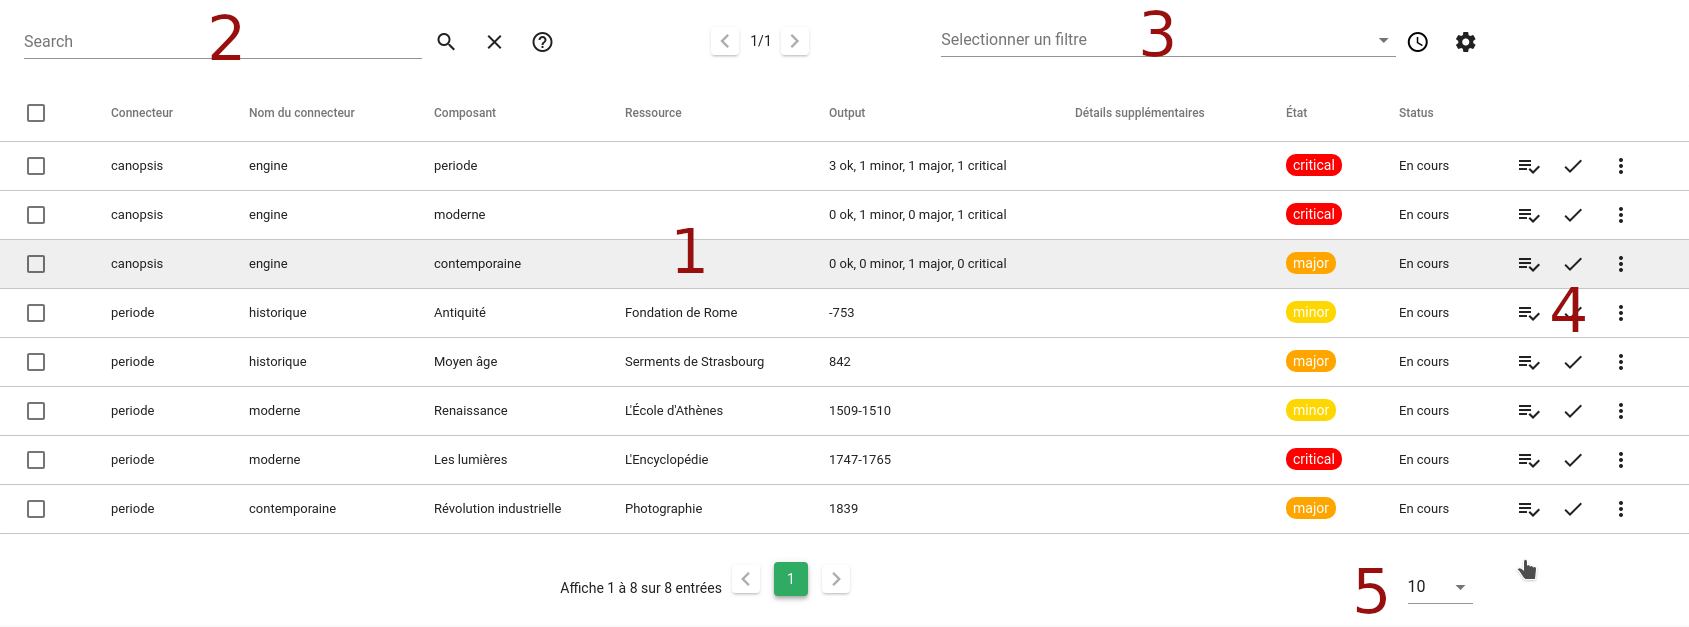
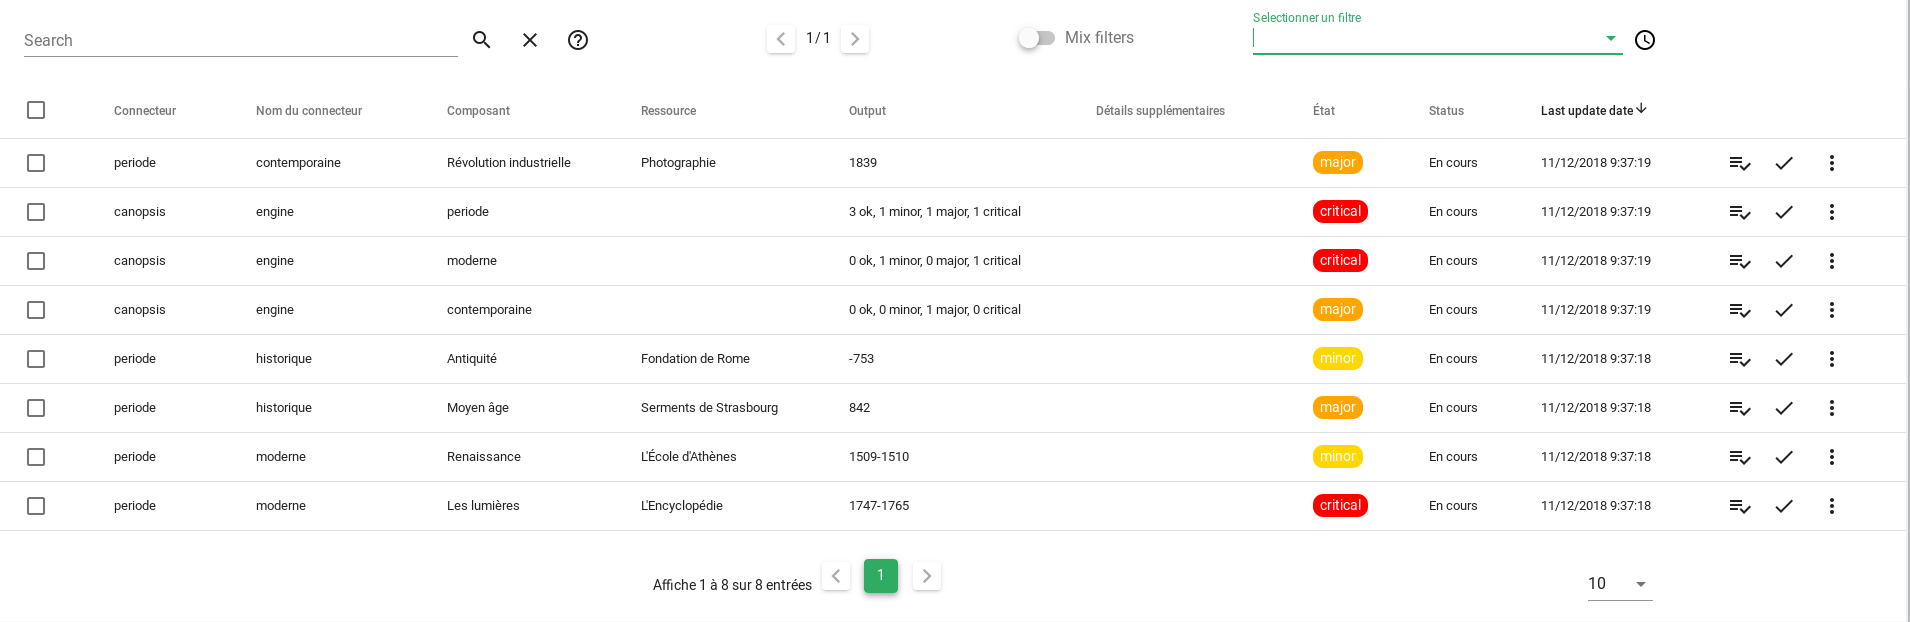
doc(mix-filters): Added mix filters doc in alarm list + context widgets doc

diff --git a/sources/docs/fr/guide-utilisation/interface/widgets/contexte/index.md b/sources/docs/fr/guide-utilisation/interface/widgets/contexte/index.md
@@ -48,6 +48,18 @@ Pour sélectionner un filtre, il suffit de cliquer sur le champ 'Sélectionner u
 Cliquez sur un filtre. Celui-ci est sélectionné, et directement appliqué.
 Pour ne plus appliquer de filtre, il suffit de cliquer sur l'icone présent au bout du champ de sélection de filtre. L'explorateur de contexte se rafraichit, le champ de sélection revient dans état initial, le filtre n'est plus appliqué !
 
+#### Mix filters
+
+L'option "Mix filters", présente à gauche du sélecteur de filtre permet de cumuler plusieurs filtres.
+
+Pour activer cette option, cliquez sur le bouton ![Mix filters](../../filtres/img/mix-filters.png "Mix filters").
+Une fois l'options activée, un sélecteur apparaît à droite du bouton d'activation ![Mix filters operator](../../filtres/img/mix-filters-operator.png "Mix filters operator"). Ce sélecteur permet de choisir l'opérateur utilisé pour réunir les filtres.
+
+- "AND": Les critères présents dans tout les filtres doivent êtres vérifiés
+- "OR": Les critères présents dans un ou plusieurs des filtres doivent êtres vérifiés.
+
+Une fois l'opérateur sélectionné, il ne vous reste plus qu'à sélectionner les filtres à appliquer dans le menu déroulant de sélection de filtres.
+
 ### Création d'entités et d'observateurs
 
 Depuis l'explorateur de contexte, il vous est possible de créer des entités et des observateurs.
@@ -185,6 +197,8 @@ Un champ de sélection permet d'abord de choisir un filtre à appliquer à l'exp
 
 Pour créer un nouveau filtre, cliquez sur le bouton 'Ajouter'. Une fenêtre de création de filtre s'ouvre. Pour plus de détails sur les filtres et leur création, cliquez [ici](../../filtres/index.md).
 Une fois votre filtre créé, celui-ci apparaît dans la liste disponible en dessous du sélecteur de filtre. Cette liste vous permet d'éditer, ou de supprimer les filtres.
+
+L'option "Mix filters" est également disponible depuis ce menu. Pour plus de détails concernant cette option, voir  [Mix filters](#mix-filters)
 
 #### Types d'entités
 

diff --git a/sources/docs/fr/guide-utilisation/interface/filtres/index.md b/sources/docs/fr/guide-utilisation/interface/filtres/index.md
@@ -90,9 +90,3 @@ Le bouton "Parse" va vous servir à vérifier l'exactitude de votre JSON, si cel
 Une fois votre Filtre réalisé, il apparaîtra dans le menu déroulant "select a filter".
 
 ![select_filter](img/select_filter.png)
-
-## Autre filtre
-
-Si vous souhaitez limiter votre vue dans la durée, il vous suffit de cliquer sur l'icone en forme d'horloge à côté de "select a filter", une fenêtre s'ouvrira et vous pourrez alors choisir votre intervalle.
-
-![reporting](img/reporting.gif)
